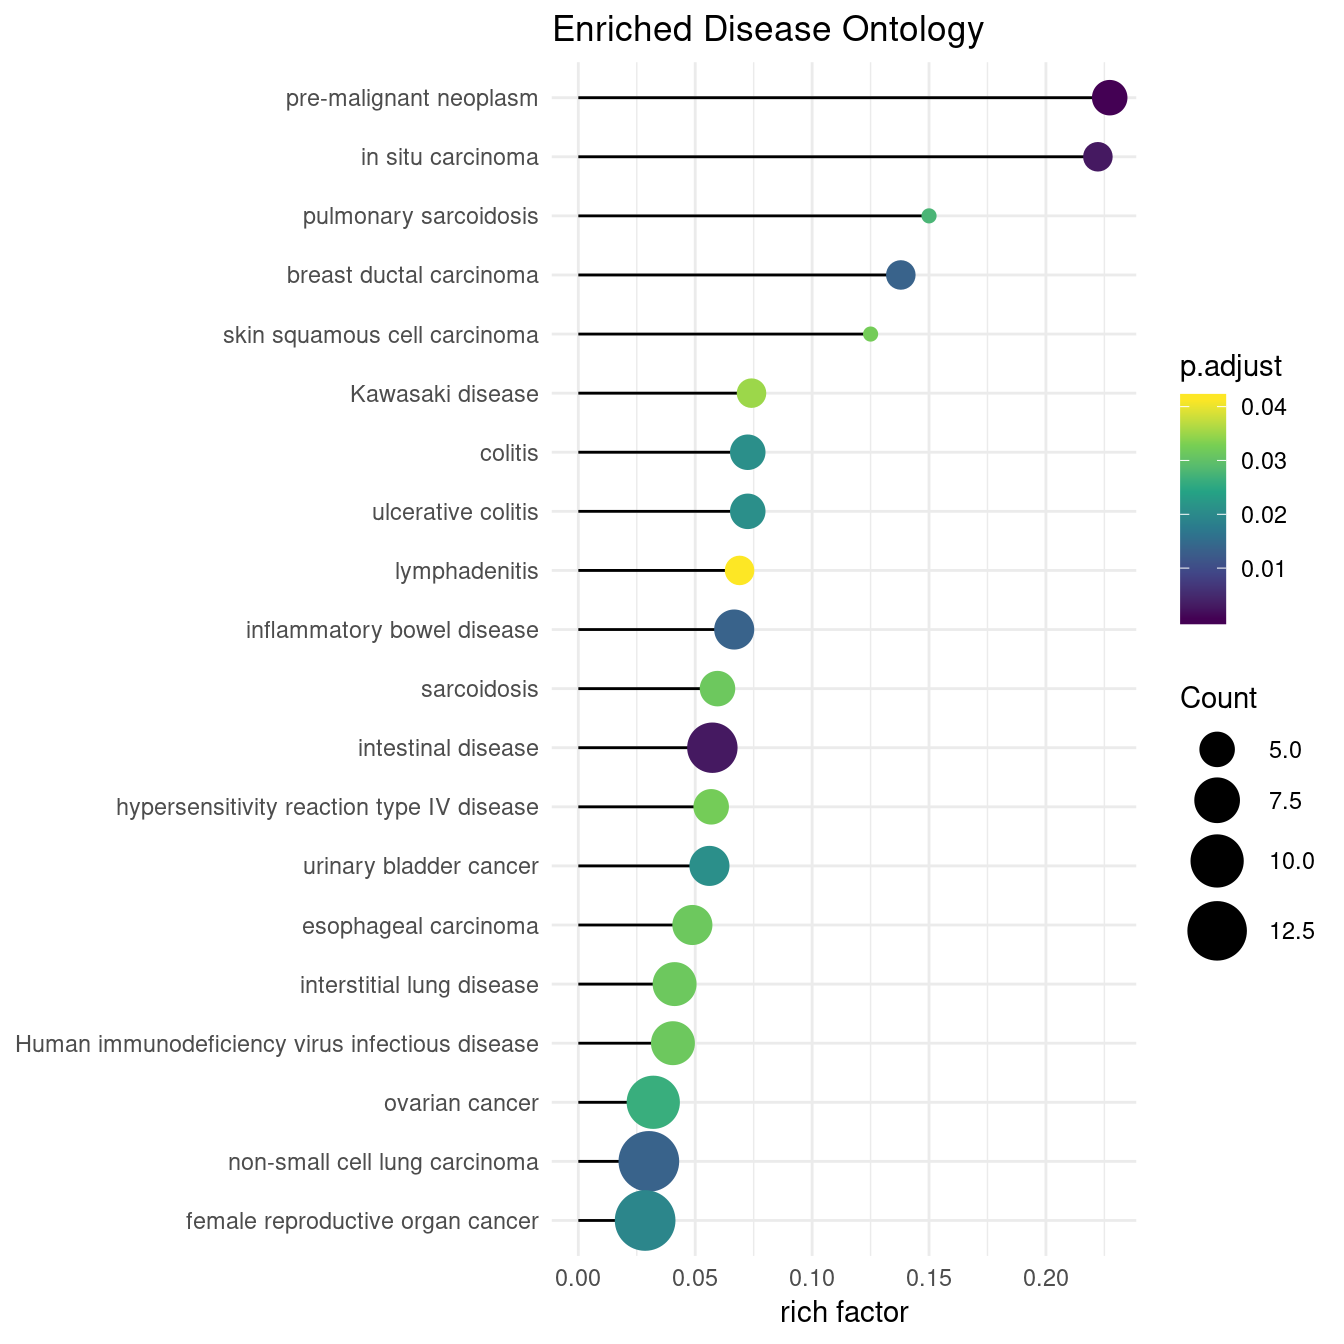
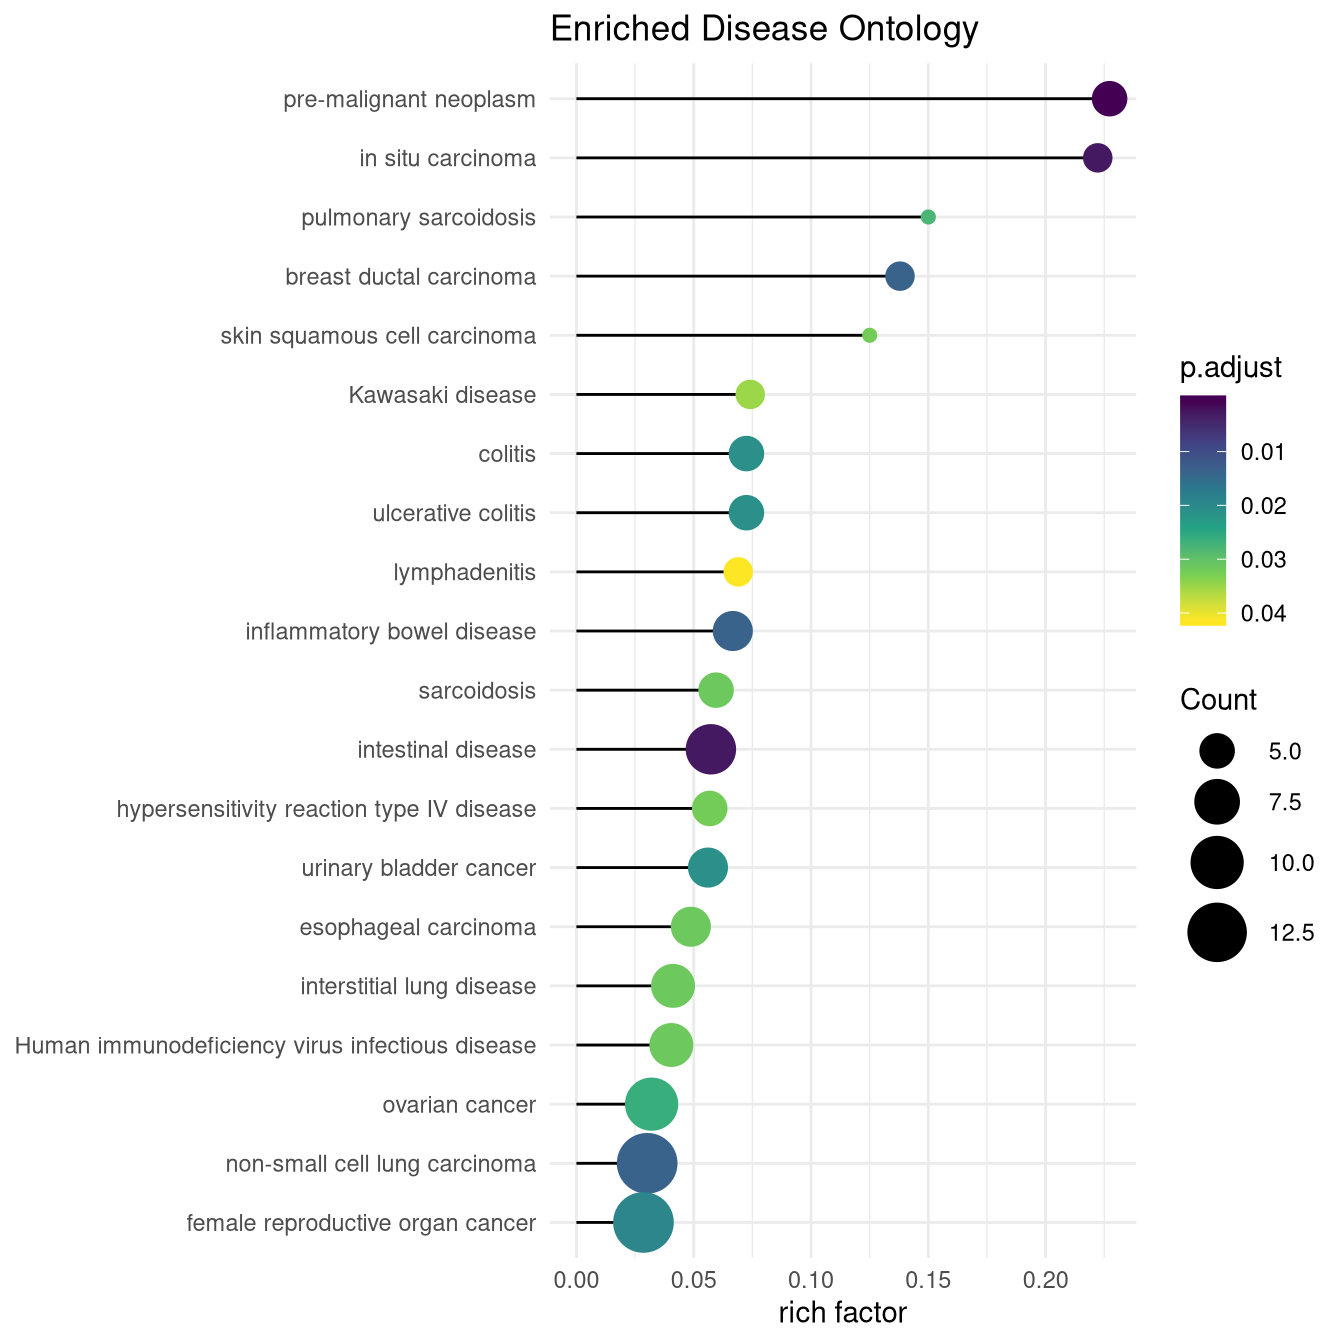
color bar

diff --git a/docs/chapter13.html b/docs/chapter13.html
@@ -360,7 +360,7 @@ code span.wa { color: #60a0b0; font-weight: bold; font-style: italic; } /* Warni
 <span id="cb127-6"><a href="chapter13.html#cb127-6"></a>  <span class="kw">aes</span>(richFactor, <span class="kw">fct_reorder</span>(Description, richFactor))) <span class="op">+</span><span class="st"> </span></span>
 <span id="cb127-7"><a href="chapter13.html#cb127-7"></a><span class="st">  </span><span class="kw">geom_segment</span>(<span class="kw">aes</span>(<span class="dt">xend=</span><span class="dv">0</span>, <span class="dt">yend =</span> Description)) <span class="op">+</span></span>
 <span id="cb127-8"><a href="chapter13.html#cb127-8"></a><span class="st">  </span><span class="kw">geom_point</span>(<span class="kw">aes</span>(<span class="dt">color=</span>p.adjust, <span class="dt">size =</span> Count)) <span class="op">+</span></span>
-<span id="cb127-9"><a href="chapter13.html#cb127-9"></a><span class="st">  </span><span class="kw">scale_color_viridis_c</span>() <span class="op">+</span></span>
+<span id="cb127-9"><a href="chapter13.html#cb127-9"></a><span class="st">  </span><span class="kw">scale_color_viridis_c</span>(<span class="dt">guide=</span><span class="kw">guide_colorbar</span>(<span class="dt">reverse=</span><span class="ot">TRUE</span>)) <span class="op">+</span></span>
 <span id="cb127-10"><a href="chapter13.html#cb127-10"></a><span class="st">  </span><span class="kw">scale_size_continuous</span>(<span class="dt">range=</span><span class="kw">c</span>(<span class="dv">2</span>, <span class="dv">10</span>)) <span class="op">+</span></span>
 <span id="cb127-11"><a href="chapter13.html#cb127-11"></a><span class="st">  </span><span class="kw">theme_minimal</span>() <span class="op">+</span><span class="st"> </span></span>
 <span id="cb127-12"><a href="chapter13.html#cb127-12"></a><span class="st">  </span><span class="kw">xlab</span>(<span class="st">&quot;rich factor&quot;</span>) <span class="op">+</span></span>
@@ -392,7 +392,7 @@ code span.wa { color: #60a0b0; font-weight: bold; font-style: italic; } /* Warni
 <span id="cb129-14"><a href="chapter13.html#cb129-14"></a></span>
 <span id="cb129-15"><a href="chapter13.html#cb129-15"></a><span class="kw">ggplot</span>(y, <span class="kw">aes</span>(NES, <span class="kw">fct_reorder</span>(Description, NES), <span class="dt">fill=</span>qvalues), <span class="dt">showCategory=</span><span class="dv">10</span>) <span class="op">+</span><span class="st"> </span></span>
 <span id="cb129-16"><a href="chapter13.html#cb129-16"></a><span class="st">    </span><span class="kw">geom_barh</span>(<span class="dt">stat=</span><span class="st">&#39;identity&#39;</span>) <span class="op">+</span><span class="st"> </span></span>
-<span id="cb129-17"><a href="chapter13.html#cb129-17"></a><span class="st">    </span><span class="kw">scale_fill_continuous</span>(<span class="dt">low=</span><span class="st">&#39;red&#39;</span>, <span class="dt">high=</span><span class="st">&#39;blue&#39;</span>) <span class="op">+</span><span class="st"> </span></span>
+<span id="cb129-17"><a href="chapter13.html#cb129-17"></a><span class="st">    </span><span class="kw">scale_fill_continuous</span>(<span class="dt">low=</span><span class="st">&#39;red&#39;</span>, <span class="dt">high=</span><span class="st">&#39;blue&#39;</span>, <span class="dt">guide=</span><span class="kw">guide_colorbar</span>(<span class="dt">reverse=</span><span class="ot">TRUE</span>)) <span class="op">+</span><span class="st"> </span></span>
 <span id="cb129-18"><a href="chapter13.html#cb129-18"></a><span class="st">    </span><span class="kw">theme_minimal</span>() <span class="op">+</span><span class="st"> </span><span class="kw">ylab</span>(<span class="ot">NULL</span>)</span></code></pre></div>
 <div class="figure"><span id="fig:sliceNES"></span>
 <img src="clusterProfiler_files/figure-html/sliceNES-1.png" alt="Choose pathways by ordinal positions." width="864" />
